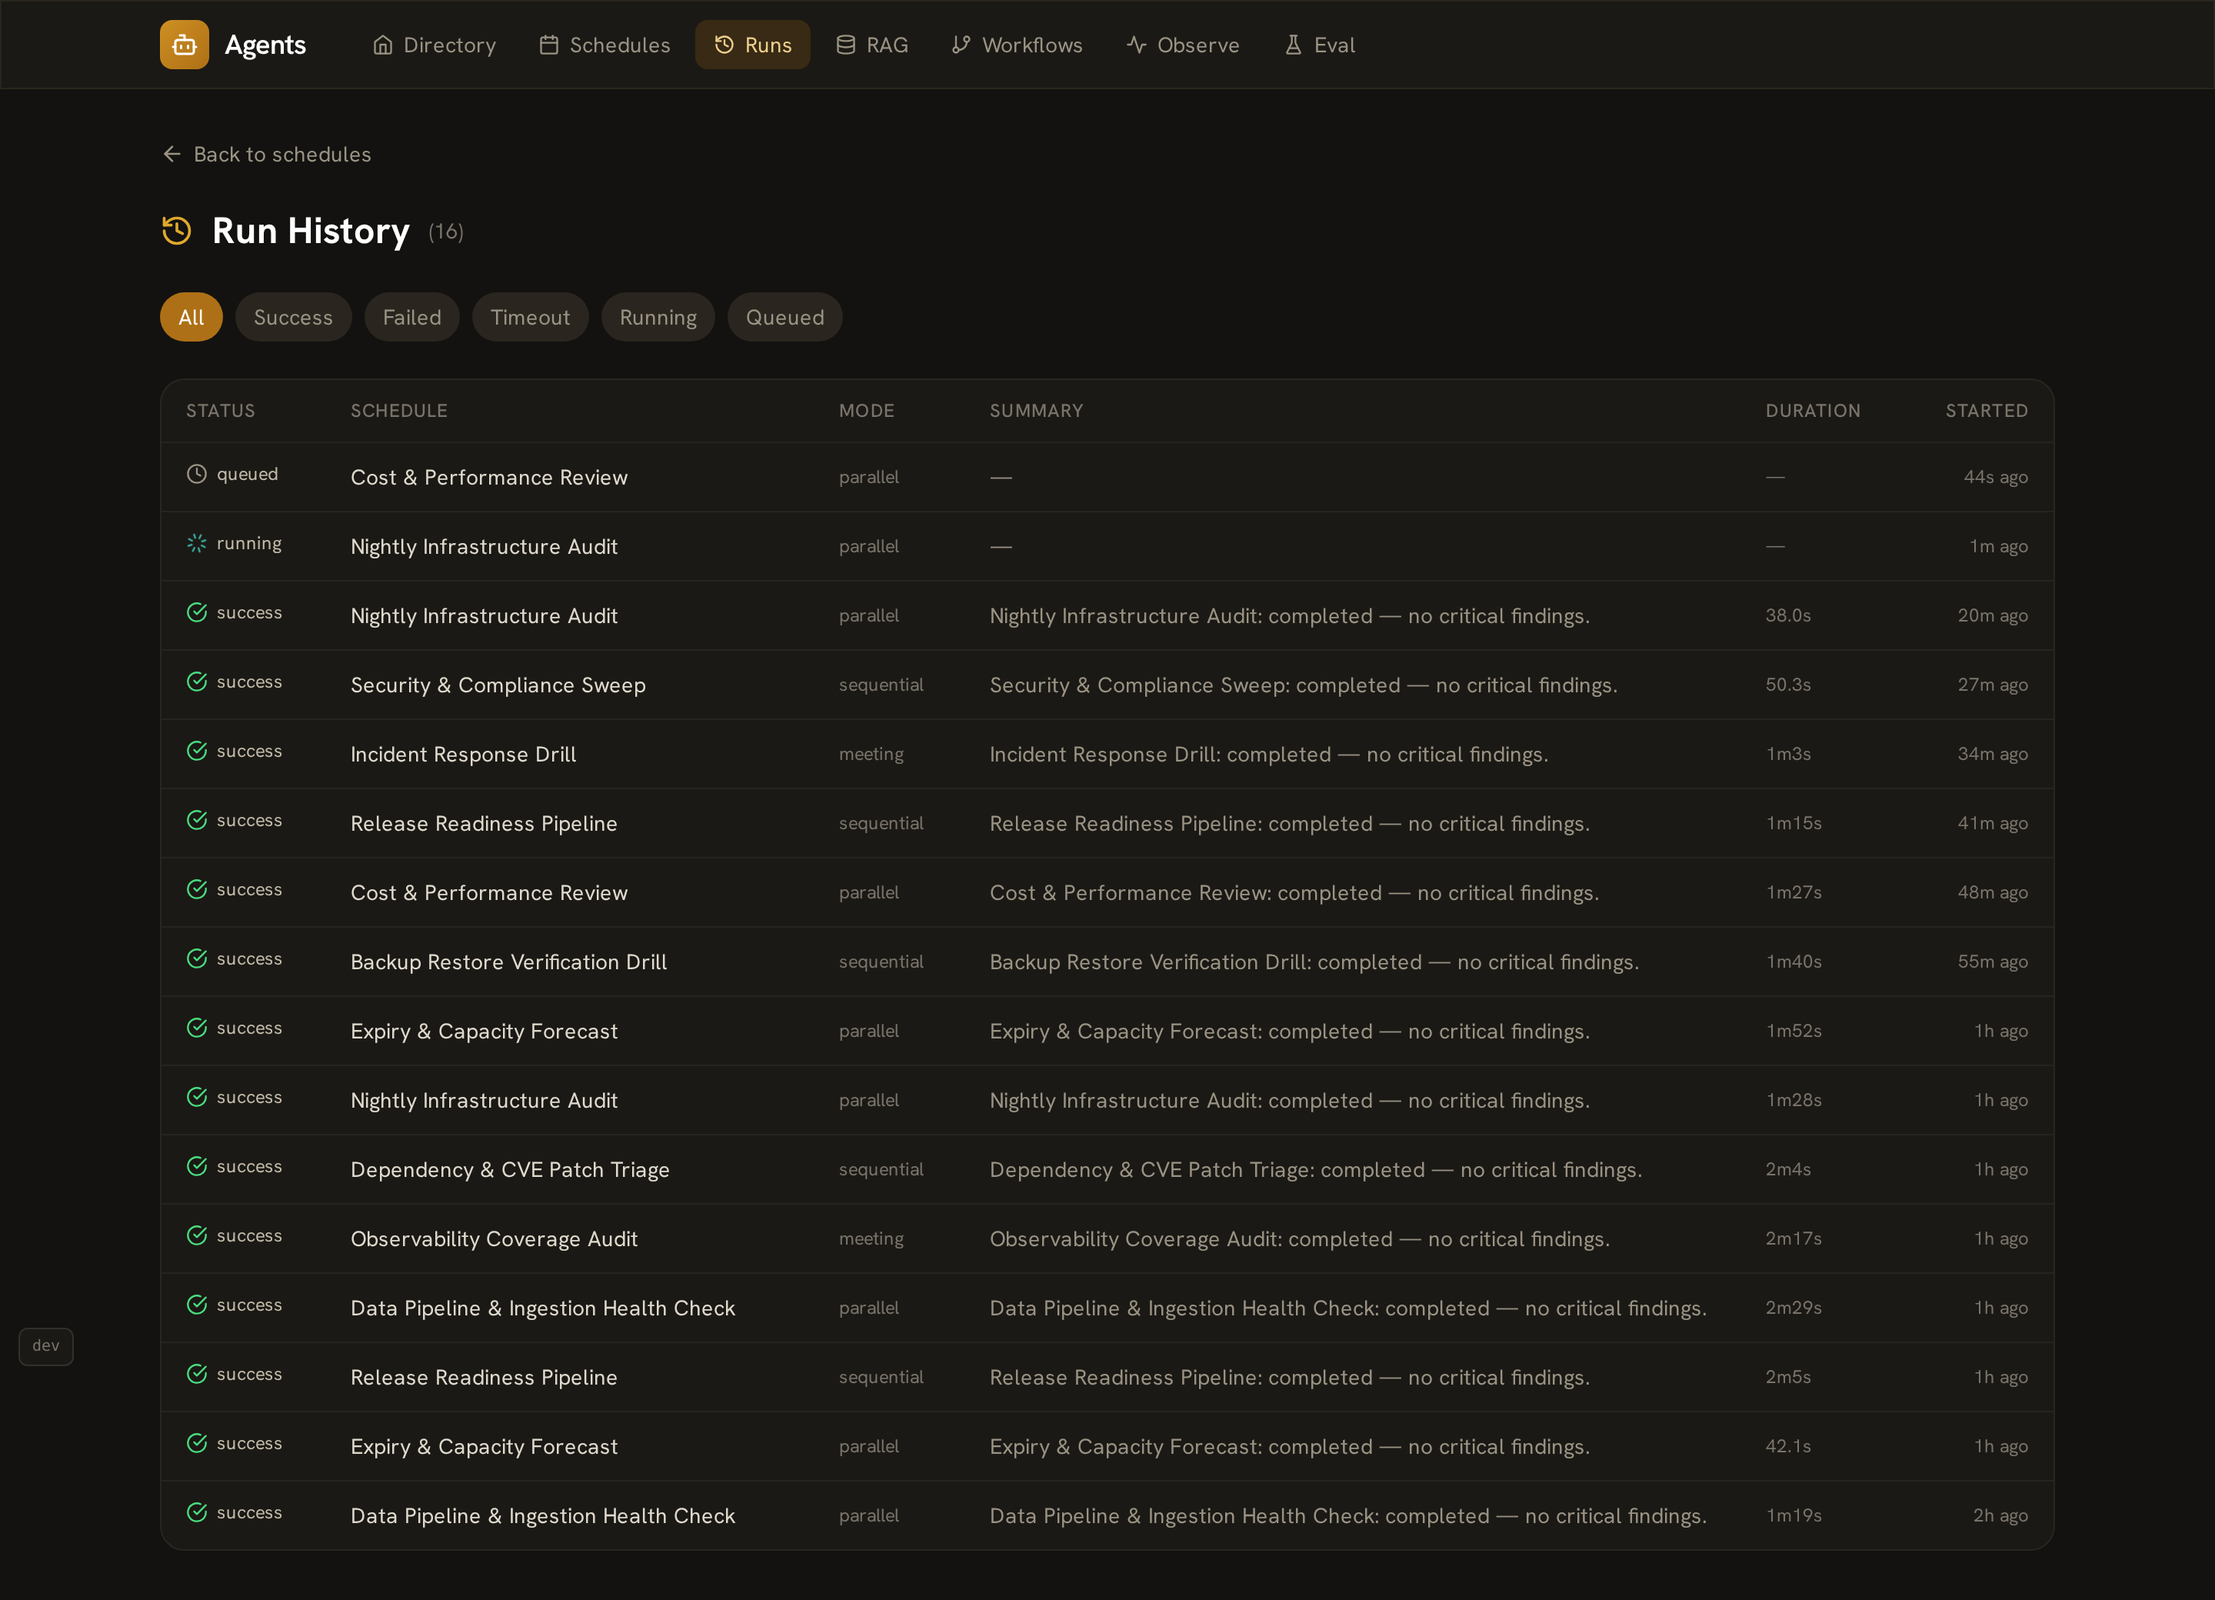
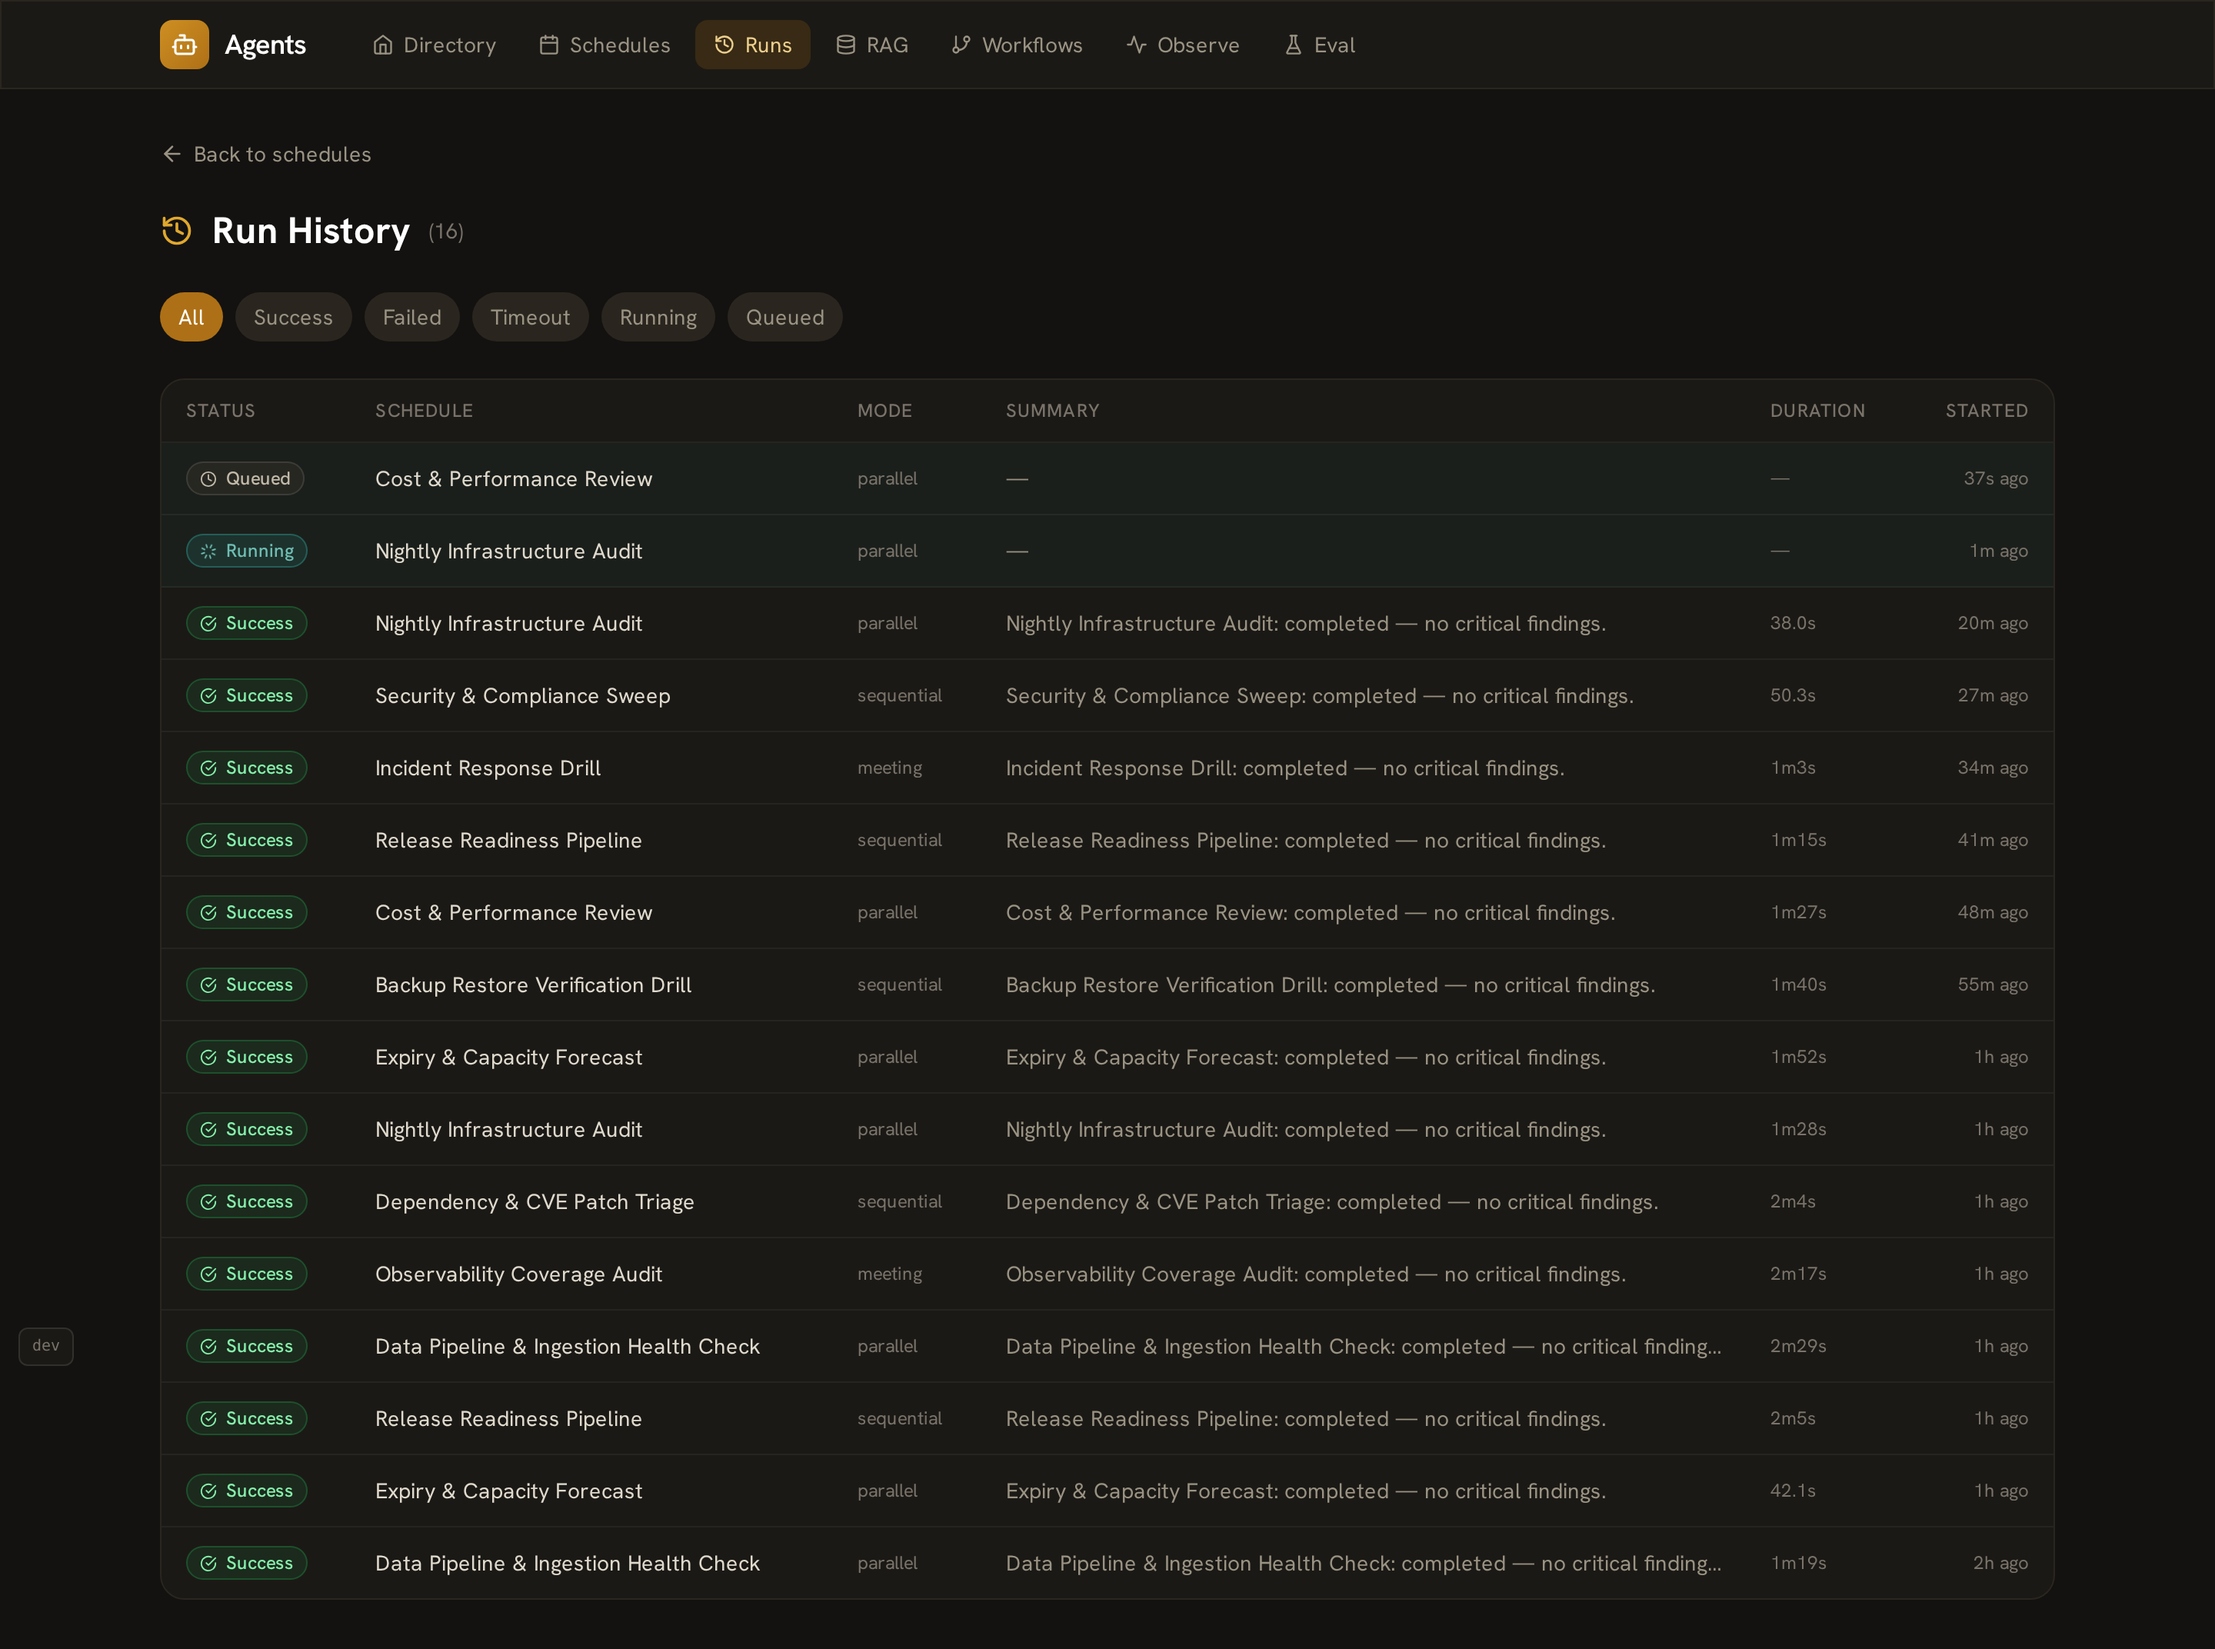
feat(ui): status pill badges + teal-tinted in-progress rows
Push the teal secondary further so 'running'/'queued' read clearly:
- shared <StatusBadge> renders run status as a pill chip (teal 'running',
  green 'success', red/orange fail, muted 'queued') — replaces the inline
  icon+text maps in AllRunsPage and SchedulesPage.
- in-progress (running/queued) rows get a subtle teal background tint, and
  all rows now hover to a teal tint instead of neutral.
Regenerated the runs + schedules screenshots.

diff --git a/src/pages/SchedulesPage.jsx b/src/pages/SchedulesPage.jsx
@@ -1,8 +1,9 @@
 import { useState, useEffect, useCallback } from 'react';
 import { Link } from 'react-router-dom';
-import { Calendar, Plus, Play, Pause, Trash2, Clock, CheckCircle, XCircle, Loader } from 'lucide-react';
+import { Calendar, Plus, Play, Pause, Trash2 } from 'lucide-react';
 import AgentAvatar from '../components/AgentAvatar';
 import ScheduleModal from '../components/ScheduleModal';
+import StatusBadge from '../components/StatusBadge';
 
 const STATUS_FILTERS = [
   { id: 'all', label: 'All' },
@@ -20,22 +21,6 @@ function StatusDot({ status }) {
   return <span className={`inline-block w-2 h-2 rounded-full ${colors[status] || 'bg-zinc-600'}`} />;
 }
 
-function RunStatusBadge({ status }) {
-  if (!status) return <span className="text-xs text-zinc-600">Never</span>;
-  const map = {
-    success: { icon: CheckCircle, color: 'text-green-400' },
-    failed: { icon: XCircle, color: 'text-red-400' },
-    timeout: { icon: XCircle, color: 'text-orange-400' },
-    running: { icon: Loader, color: 'text-teal-400 animate-spin' },
-    queued: { icon: Clock, color: 'text-zinc-400' },
-  };
-  const { icon: Icon, color } = map[status] || { icon: Clock, color: 'text-zinc-500' };
-  return (
-    <span className={`inline-flex items-center gap-1 text-xs ${color}`}>
-      <Icon size={12} /> {status}
-    </span>
-  );
-}
 
 function formatNext(iso) {
   if (!iso) return '—';
@@ -208,7 +193,7 @@ export default function SchedulesPage() {
                 return (
                   <tr
                     key={s.id}
-                    className={`border-b border-white/5 last:border-0 hover:bg-white/[0.02] ${isCompleted ? 'opacity-60' : ''}`}
+                    className={`border-b border-white/5 last:border-0 transition-colors hover:bg-teal-500/[0.04] ${isCompleted ? 'opacity-60' : ''} ${s.last_run_status === 'running' || s.last_run_status === 'queued' ? 'bg-teal-500/[0.05]' : ''}`}
                   >
                     <td className="px-4 py-3">
                       <Link to={`/schedules/${s.id}`} className="flex items-center gap-2 text-zinc-200 hover:text-white">
@@ -245,9 +230,9 @@ export default function SchedulesPage() {
                     <td className="px-4 py-3">
                       {s.last_run_id ? (
                         <Link to={`/schedules/runs/${s.last_run_id}`} className="hover:underline">
-                          <RunStatusBadge status={s.last_run_status} />
+                          <StatusBadge status={s.last_run_status} />
                         </Link>
-                      ) : <RunStatusBadge status={null} />}
+                      ) : <StatusBadge status={null} />}
                     </td>
                     <td className="px-4 py-3">
                       <div className="flex items-center justify-end gap-1">

diff --git a/src/pages/AllRunsPage.jsx b/src/pages/AllRunsPage.jsx
@@ -1,6 +1,7 @@
 import { useState, useEffect, useCallback } from 'react';
 import { Link } from 'react-router-dom';
-import { History, CheckCircle, XCircle, Loader, Clock, ArrowLeft } from 'lucide-react';
+import { History, ArrowLeft } from 'lucide-react';
+import StatusBadge from '../components/StatusBadge';
 
 const STATUS_FILTERS = [
   { id: 'all', label: 'All' },
@@ -10,18 +11,6 @@ const STATUS_FILTERS = [
   { id: 'running', label: 'Running' },
   { id: 'queued', label: 'Queued' },
 ];
-
-function StatusIcon({ status }) {
-  const map = {
-    success: { Icon: CheckCircle, color: 'text-green-400' },
-    failed: { Icon: XCircle, color: 'text-red-400' },
-    timeout: { Icon: XCircle, color: 'text-orange-400' },
-    running: { Icon: Loader, color: 'text-teal-400 animate-spin' },
-    queued: { Icon: Clock, color: 'text-zinc-400' },
-  };
-  const { Icon, color } = map[status] || { Icon: Clock, color: 'text-zinc-500' };
-  return <Icon size={14} className={color} />;
-}
 
 function formatDuration(ms) {
   if (!ms && ms !== 0) return '—';
@@ -142,11 +131,10 @@ export default function AllRunsPage() {
             </thead>
             <tbody>
               {runs.map(r => (
-                <tr key={r.id} className="border-b border-white/5 last:border-0 hover:bg-white/[0.02]">
+                <tr key={r.id} className={`border-b border-white/5 last:border-0 transition-colors hover:bg-teal-500/[0.04] ${r.status === 'running' || r.status === 'queued' ? 'bg-teal-500/[0.05]' : ''}`}>
                   <td className="px-4 py-3">
-                    <Link to={`/schedules/runs/${r.id}`} className="inline-flex items-center gap-1.5">
-                      <StatusIcon status={r.status} />
-                      <span className="text-xs text-zinc-300">{r.status}</span>
+                    <Link to={`/schedules/runs/${r.id}`}>
+                      <StatusBadge status={r.status} />
                     </Link>
                   </td>
                   <td className="px-4 py-3 text-zinc-200">

diff --git a/src/components/StatusBadge.jsx b/src/components/StatusBadge.jsx
@@ -1,0 +1,23 @@
+import { CheckCircle, XCircle, Loader, Clock } from 'lucide-react';
+
+// Run-status pill. Teal = in-progress (the secondary accent), green = success,
+// red/orange = failed/timeout, muted = queued.
+const STATUS = {
+  success: { Icon: CheckCircle, label: 'success', cls: 'bg-green-500/10 text-green-300 border-green-500/25' },
+  failed:  { Icon: XCircle,     label: 'failed',  cls: 'bg-red-500/10 text-red-300 border-red-500/25' },
+  timeout: { Icon: XCircle,     label: 'timeout', cls: 'bg-orange-500/10 text-orange-300 border-orange-500/25' },
+  running: { Icon: Loader,      label: 'running', cls: 'bg-teal-500/15 text-teal-300 border-teal-500/40', spin: true },
+  queued:  { Icon: Clock,       label: 'queued',  cls: 'bg-zinc-700/40 text-zinc-300 border-white/10' },
+};
+
+export default function StatusBadge({ status }) {
+  if (!status) return <span className="text-xs text-zinc-600">Never</span>;
+  const s = STATUS[status] || STATUS.queued;
+  const { Icon } = s;
+  return (
+    <span className={`inline-flex items-center gap-1.5 px-2 py-0.5 rounded-full border text-xs font-medium capitalize ${s.cls}`}>
+      <Icon size={11} className={s.spin ? 'animate-spin' : ''} aria-hidden="true" />
+      {s.label}
+    </span>
+  );
+}
